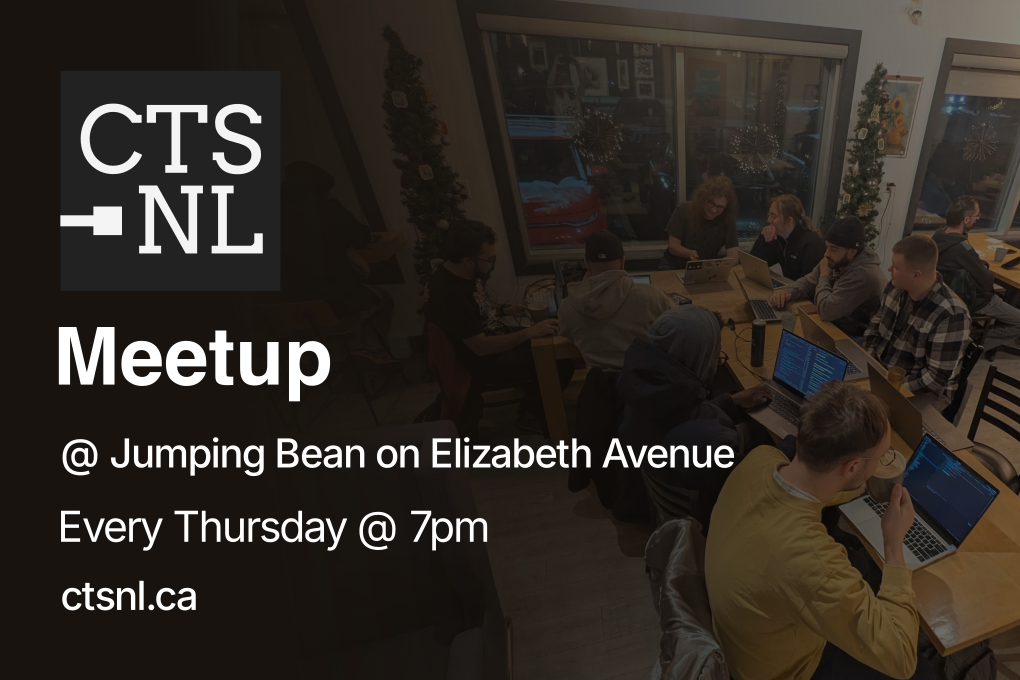
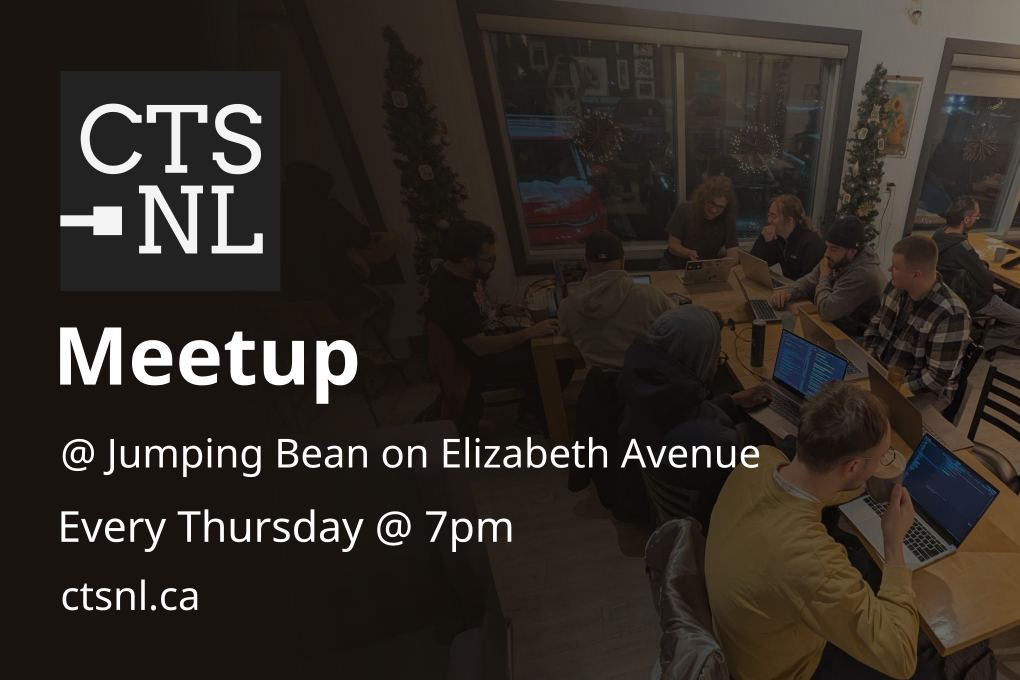
copy rejig, nicer

diff --git a/src/pages/llms.txt.ts b/src/pages/llms.txt.ts
@@ -17,7 +17,6 @@ export async function GET({ site }: APIContext) {
   const pages = [
     { title: "Home", url: "/" },
     { title: "About", url: "/about/" },
-    { title: "Events", url: "/events/" },
     { title: "News", url: "/news/" },
     { title: "Code of Conduct", url: "/conduct/" },
     { title: "Contact", url: "/contact/" },
@@ -25,9 +24,9 @@ export async function GET({ site }: APIContext) {
 
   const body = `# CTS-NL
 
-> A community for the people who work in or have an interest in software development, programming, information technology and computing in Newfoundland and Labrador.
+> A community for people interested in software and technology in Newfoundland and Labrador.
 
-CTS-NL meets every Thursday from 7pm at Jumping Bean Coffee on Elizabeth Avenue in St. John's, NL. The meetup doesn't always happen. Check the Discord (${DISCORD_INVITE_LINK}) to confirm before heading down. The rest of the week the group hangs out on Discord.
+CTS-NL meets every Thursday from 7 pm at Jumping Bean Coffee on Elizabeth Avenue in St. John's, NL. Check Discord (${DISCORD_INVITE_LINK}) before heading over in case the cafe closes early or the location changes. Between meetups, the group keeps in touch on Discord.
 
 For other tech events and jobs in the St. John's area, see https://siliconharbour.dev.
 
